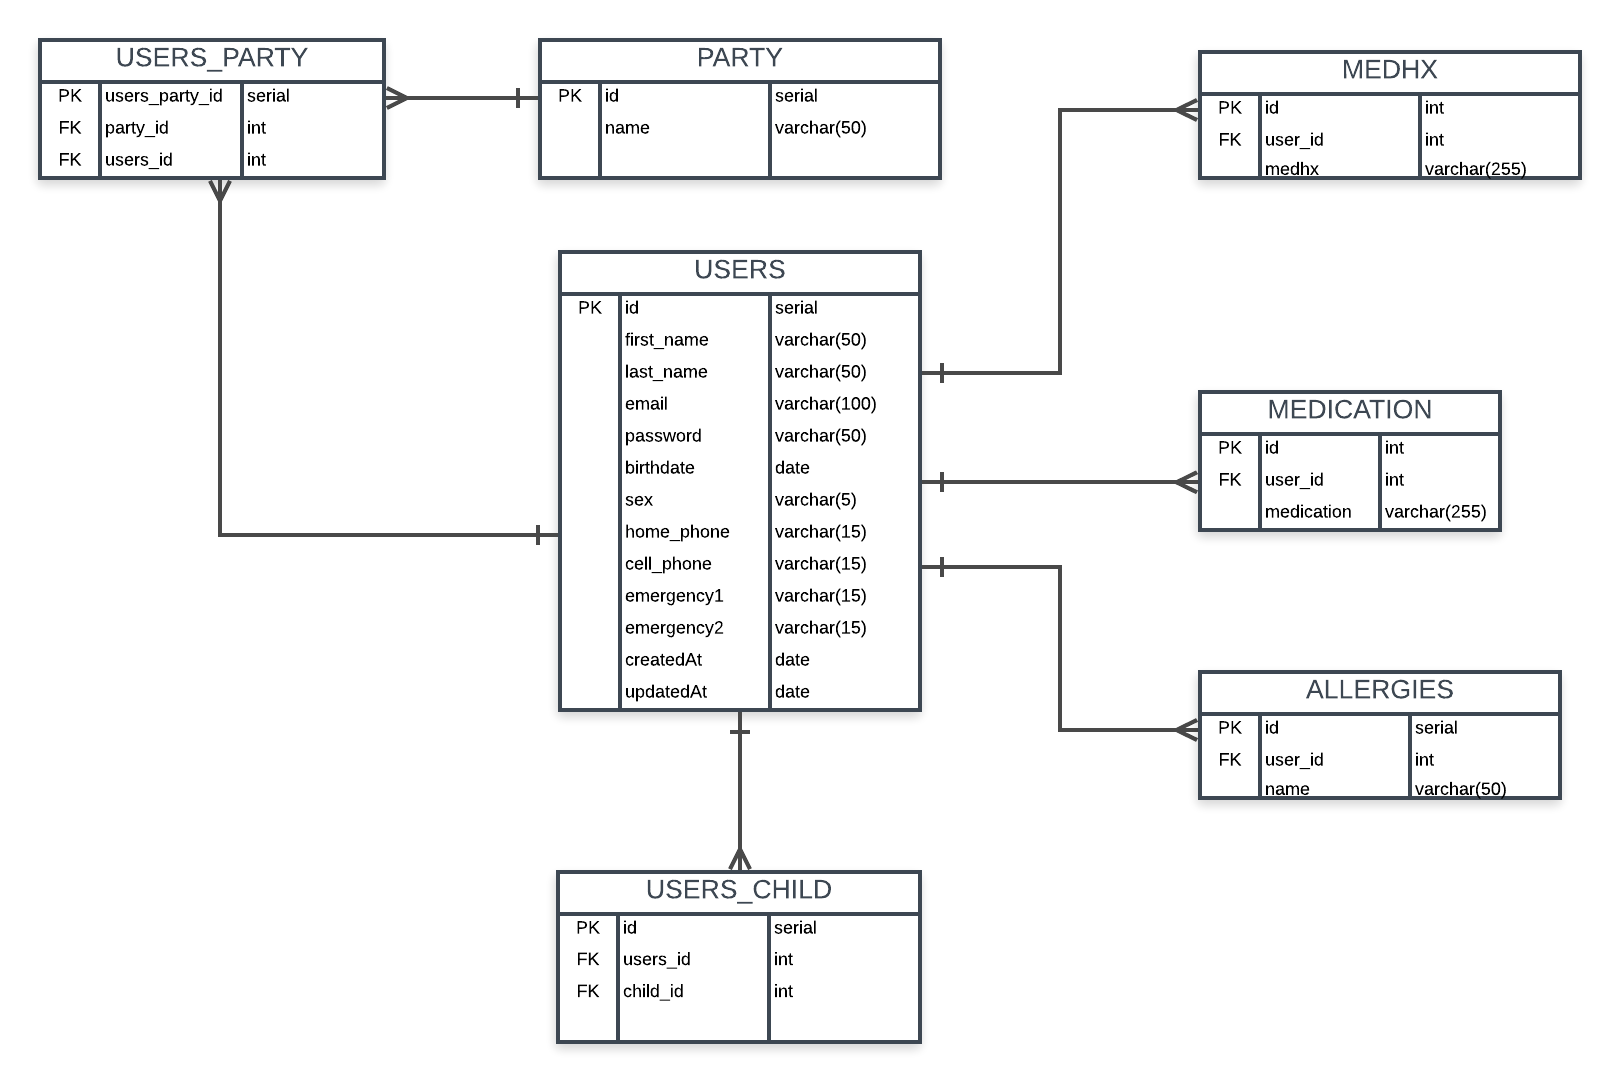
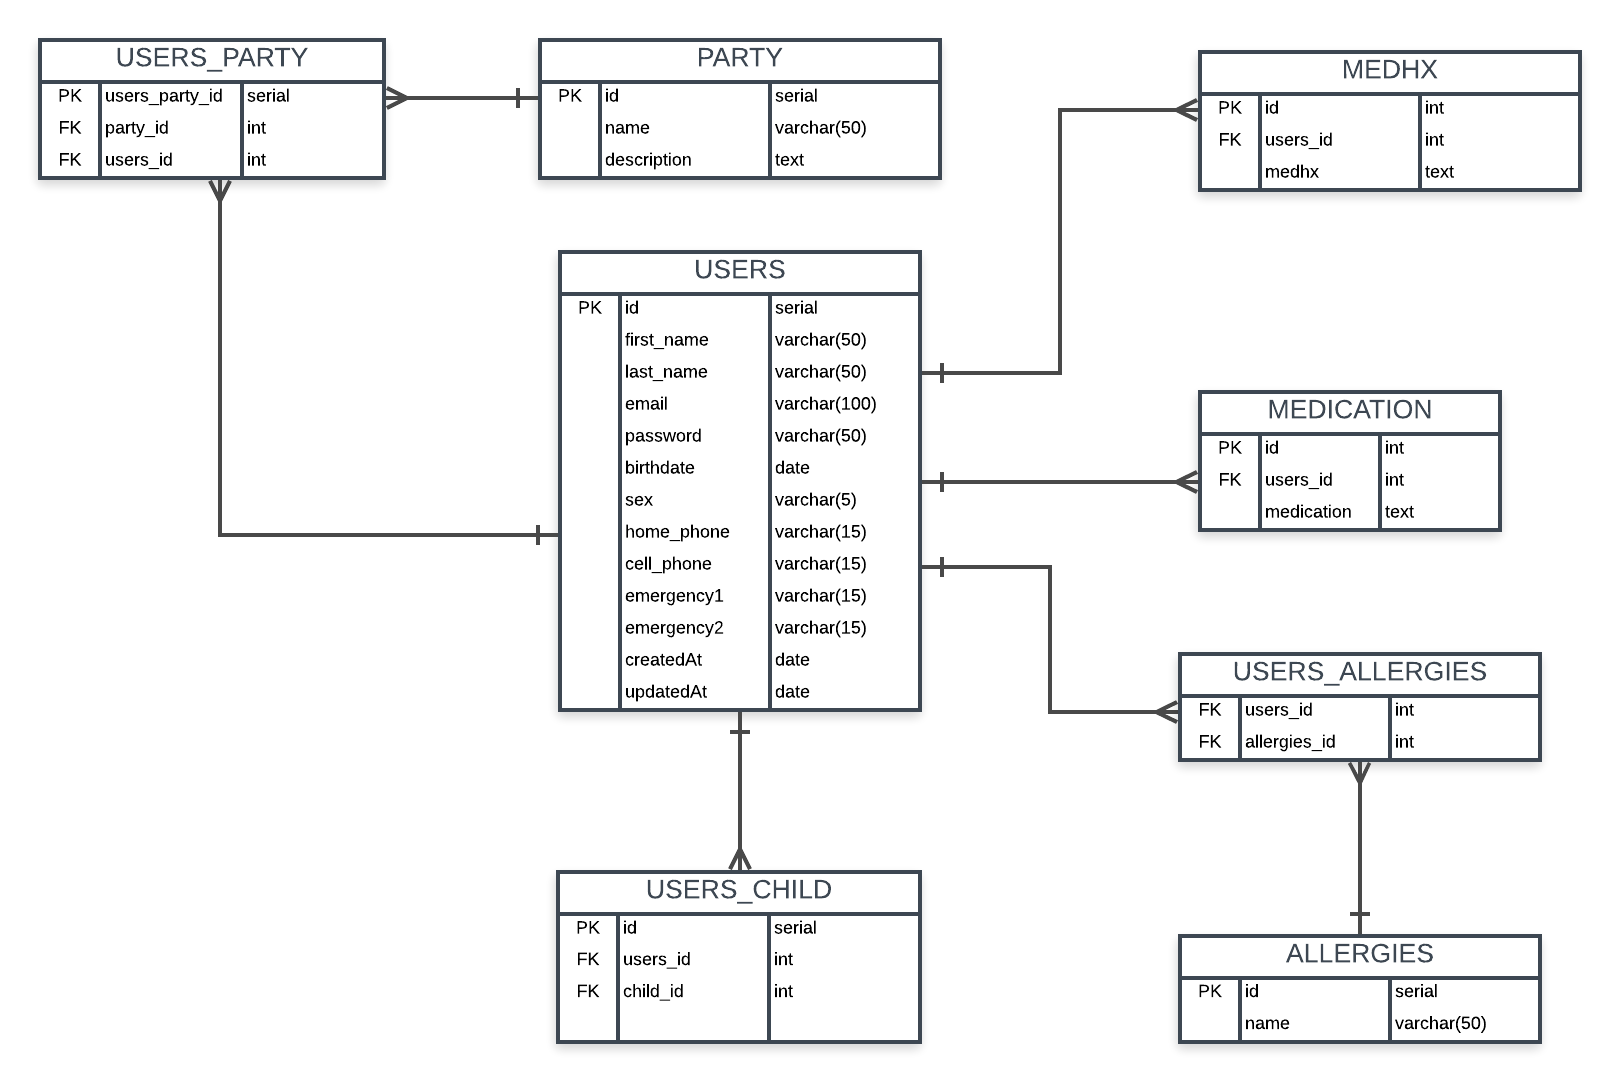
edited allergies db, added routes for allergies.

diff --git a/src/controllers/profiles.js b/src/controllers/profiles.js
@@ -1,27 +1,42 @@
 const model = require('../models/profiles')
 
-async function getAllProfiles(req, res, next) {
-	const data = await model.getAllProfiles()
-	res.status(200).json({
-		data,
-	})
+async function getAllProfiles (req, res, next) {
+  const data = await model.getAllProfiles()
+  res.status(200).json({
+    data
+  })
 }
 
-async function getProfile(req, res, next) {
+async function getProfile (req, res, next) {
   try {
-    const data = await model.getFullProfile(req.params.profileId);
+    const data = await model.getFullProfile(req.params.profileId)
     res.status(200).json({
-      data 
+      data
     })
   } catch (err) {
     next({
       status: 404,
-      message: err.message,
+      message: err.message
+    })
+  }
+}
+
+async function getProfileAllergies (req, res, next) {
+  try {
+    const data = await model.getProfilesAllergies(req.params.profileId)
+    res.status(200).json({
+      data
+    })
+  } catch (err) {
+    next({
+      status: 404,
+      message: err.message
     })
   }
 }
 
 module.exports = {
-	getAllProfiles,
-	getProfile,
+  getAllProfiles,
+  getProfileAllergies,
+  getProfile
 }

diff --git a/src/models/profiles.js b/src/models/profiles.js
@@ -13,18 +13,20 @@ function getProfile (id) {
 
 function getFullProfile (id) {
   return db('users')
-    .innerJoin('health', 'users.id', '=', 'health.users_id')
-    .innerJoin('medhx', 'medhx.id', '=', 'health.medhx_id')
-    .innerJoin('medication', 'medication.id', '=', 'health.medication_id')
-    .innerJoin('health_allergies', 'health.id', '=', 'health_id')
-    .innerJoin('allergies', 'allergies_id', '=', 'allergies.id')
-    .where('users_id', id).select('first_name', 'name')
-    
-    
+    .innerJoin('allergies', 'users.id', '=', 'allergies.users_id')
+    .innerJoin('medhx', 'users.id', '=', 'medhx.users_id')
+    .innerJoin('medication', 'users.id', '=', 'medication.users_id')   
+}
+
+function getProfilesAllergies(id) {
+  return db('users')
+    .innerJoin('allergies', 'users.id', '=', 'allergies.users_id')
+    .where('users.id', id).select('name')
 }
 
 module.exports = {
   getAllProfiles,
   getFullProfile,
+  getProfilesAllergies,
   getProfile
 }

diff --git a/src/controllers/allergies.js b/src/controllers/allergies.js
@@ -1,10 +1,15 @@
 const model = require('../models/allergies')
 
 async function getAllAllergies (req, res, next) {
-  const data = await model.getAllAllergies()
-  res.status(200).json({
-    data
-  })
+  try {
+    console.log('IN ACTIONS TO REQ ALL ALLERGIES: ')
+    const data = await model.getAllAllergies()
+    res.status(200).json({
+      data
+    })
+  } catch (e) {
+    console.log('Could not complete task', e)
+  }
 }
 
 async function addAllergy (req, res, next) {
@@ -16,7 +21,7 @@ async function addAllergy (req, res, next) {
   } catch (e) {
     next({
       status: 400,
-      error: 'Could not complete task'
+      error: `Could not complete. ${e}`
     })
   }
 }
@@ -36,6 +41,6 @@ async function addAllergy (req, res, next) {
 // }
 
 module.exports = {
-	getAllAllergies,
-	addAllergy,
-};
+  getAllAllergies,
+  addAllergy
+}

diff --git a/src/db/seeds/07_users_allergies.js b/src/db/seeds/07_users_allergies.js
@@ -1,0 +1,31 @@
+const table = 'users_allergies'
+exports.seed = knex => {
+  return knex(table)
+    .insert([
+      {
+        id: 1,
+        users_id: 1,
+        allergies_id: 3
+      },
+      {
+        id: 2,
+        users_id: 1,
+        allergies_id: 1
+      },
+      {
+        id: 3,
+        users_id: 2,
+        allergies_id: 2,
+      },
+      {
+        id: 4,
+        users_id: 2,
+        allergies_id: 4,
+      }
+    ])
+    .then(() => {
+      return knex.raw(
+        `SELECT setval('${table}_id_seq', (SELECT MAX(id) FROM ${table}));`
+      )
+    })
+}

diff --git a/src/db/seeds/04_allergies.js b/src/db/seeds/04_allergies.js
@@ -1,16 +1,28 @@
-const table = 'medhx'
+const table = 'allergies'
 exports.seed = knex => {
   return knex(table)
     .insert([
       {
         id: 1,
-        history: 'CHF, HTN, DM2, SLE'
+        allergy_name: 'peanut',
+        
 
       },
       {
         id: 2,
-        history: 'PTSD, insomnia'
+        allergy_name: 'avocados'
+        
 
+      },
+      {
+        id: 3,
+        allergy_name: 'kryptonite'
+        
+      },
+      {
+        id: 4,
+        allergy_name: 'bats'
+        
       }
     ])
     .then(() => {

diff --git a/src/db/seeds/02_medhx.js b/src/db/seeds/02_medhx.js
@@ -1,24 +1,18 @@
-const table = 'allergies'
+const table = 'medhx'
 exports.seed = knex => {
   return knex(table)
     .insert([
       {
         id: 1,
-        name: 'peanut'
+        users_id: 1,
+        medhx: 'CHF, HTN, DM2, SLE'
 
       },
       {
         id: 2,
-        name: 'avocados'
+        users_id: 2,
+        medhx: 'PTSD, insomnia'
 
-      },
-      {
-        id: 3,
-        name: 'kryptonite'
-      },
-      {
-        id: 4,
-        name: 'bats'
       }
     ])
     .then(() => {

diff --git a/src/db/migrations/20180928101702_users_allergies.js b/src/db/migrations/20180928101702_users_allergies.js
@@ -1,0 +1,15 @@
+
+exports.up = knex => {
+  return knex.schema.createTable('users_allergies', table => {
+    table.increments()
+    table.integer('users_id').notNullable()
+    table.foreign('users_id').references('users.id').onDelete('CASCADE')
+    table.integer('allergies_id').notNullable()
+    table.foreign('allergies_id').references('allergies.id').onDelete('CASCADE')
+    table.timestamps(true, false)
+  })
+}
+
+exports.down = knex => {
+  return knex.schema.dropTable('users_allergies')
+}

diff --git a/src/models/allergies.js b/src/models/allergies.js
@@ -2,17 +2,15 @@ const { promisify } = require('util')
 const db = require('../db')
 const bcrypt = require('bcryptjs')
 
-function getAllAllergies() {
-  return db('allergies')
+function getAllAllergies () {
+  return db('allergies').select('id', 'allergy_name')
 }
 
-function addAllergy(name) {
+function addAllergy (allergy_name) {
   return db('allergies')
-    .insert(name)
-    .returning('name')
+    .insert(allergy_name)
+    .returning('*')
 }
-
-
 
 module.exports = {
   getAllAllergies,

diff --git a/src/db/seeds/03_medication.js b/src/db/seeds/03_medication.js
@@ -1,19 +1,17 @@
-const table = 'health'
+const table = 'medication'
 exports.seed = knex => {
   return knex(table)
     .insert([
       {
         id: 1,
         users_id: 1,
-        medhx_id: 1,
-        medication_id: 1,
+        medication: 'losartan, amlodipine, pravastatin'
 
       },
       {
         id: 2,
         users_id: 2,
-        medhx_id: 2,
-        medication_id: 2,
+        medication: 'acetominophen, amoxicillin'
 
       }
     ])

diff --git a/src/db/migrations/20180918143700_medhx.js b/src/db/migrations/20180918143700_medhx.js
@@ -2,7 +2,9 @@
 exports.up = knex => {
   return knex.schema.createTable('medhx', table => {
     table.increments()
-    table.string('history').defaultsTo('')
+    table.integer('users_id').notNullable()
+    table.foreign('users_id').references('users.id').onDelete('CASCADE')
+    table.string('medhx').defaultsTo('')
     table.timestamps(true, true)
   })
 }

diff --git a/src/db/migrations/20180918143701_medication.js b/src/db/migrations/20180918143701_medication.js
@@ -2,6 +2,8 @@
 exports.up = knex => {
   return knex.schema.createTable("medication", table => {
     table.increments()
+    table.integer('users_id').notNullable()
+    table.foreign('users_id').references('users.id').onDelete('CASCADE')
     table.string('medication').defaultsTo('')
     table.timestamps(true, true)
   })

diff --git a/src/db/seeds/00_drop.js b/src/db/seeds/00_drop.js
@@ -1,9 +1,7 @@
 exports.seed = async knex => {
-  await knex('health_allergies').del()
   await knex('users_child').del()
   await knex('users_party').del()
   await knex('party').del()
-  await knex('health').del()
   await knex('allergies').del()
   await knex('users').del()
   await knex('medication').del()
